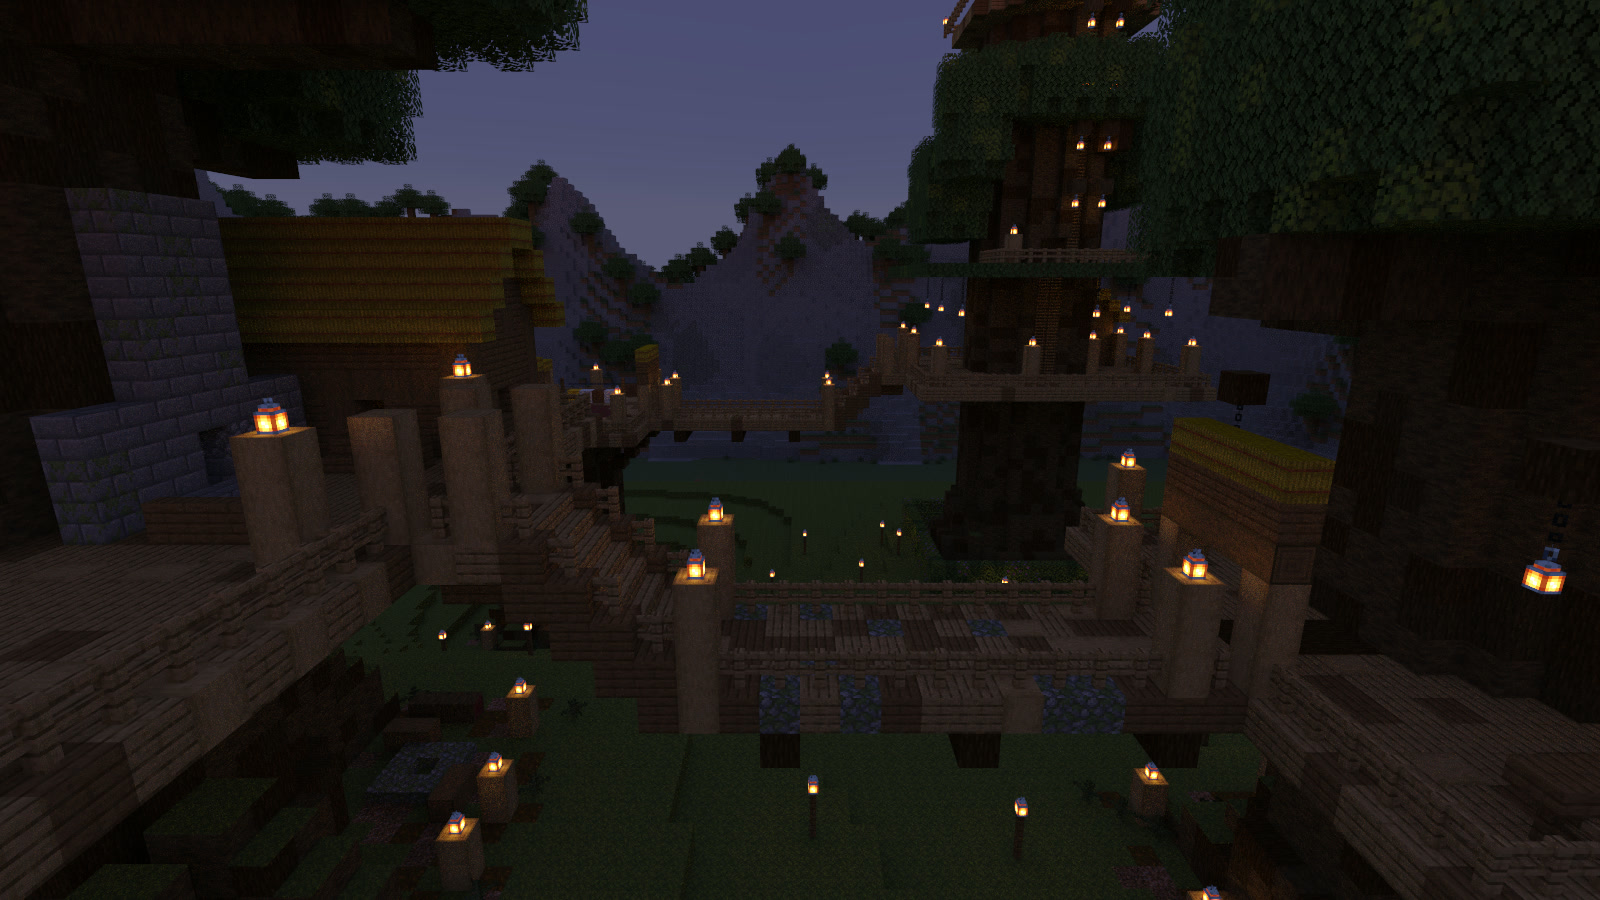
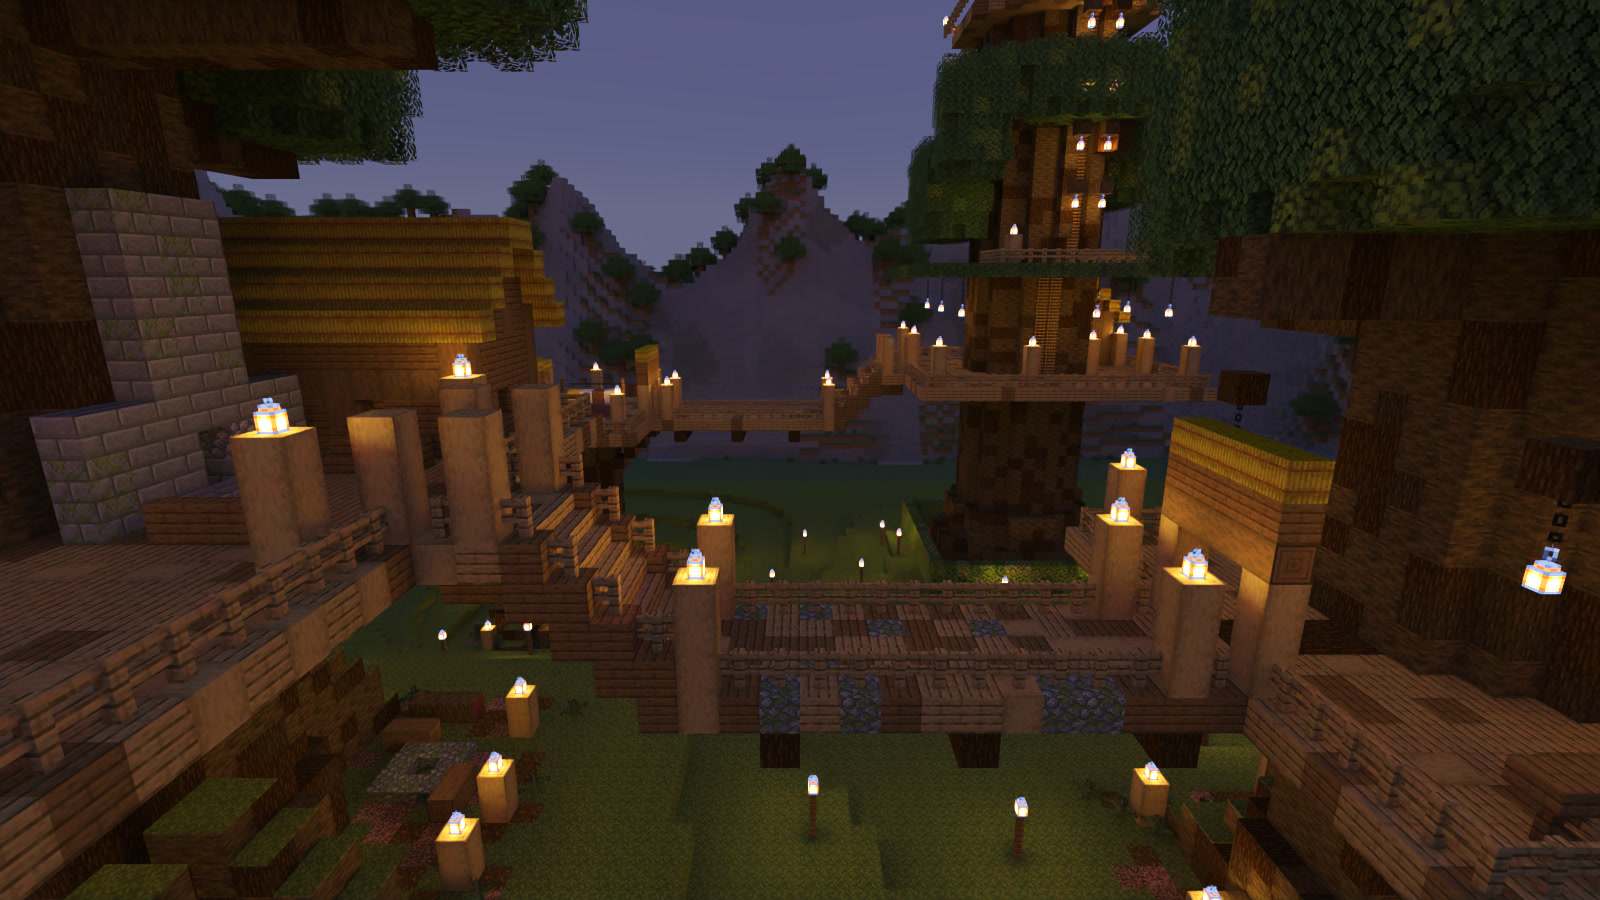
docs(media): The Treehouse Camp's twelve pictures at the game's mid-tone, lantern-lit and denoised
The twelve pictures are re-rendered with the render route of engine
fix/midtone-matches-the-game @ f330afcd95069a0083350865feadeb4ab66a33b4:
a Hable curve anchored at mid-grey (linear 0.18 maps to the game's
display value), lantern emitters at the derived light scale, and every
frame denoised by Open Image Denoise through the pinned chunky-denoiser.
The subjects, cameras and order are unchanged. The worlds are the ones
the release pin builds (content release/the-treehouse-camp/v1.0.1,
delvec 1.12.0), byte-identical to the previous set's.

The whole-camp picture is renamed 01-hero-whole-map-east-northeast.jpg.
It is taken from the east-north-east, as its caption already said; the
old name said south-south-west. Its three references (the campaign page
and the gallery in English and zh-CN) follow the new name.

Per picture (JPEG bytes, mean luma by ffmpeg signalstats YAVG):

| Picture | bytes | mean luma |
|---|---|---|
| 01 whole camp | 401004 | 64.9 |
| 02 Root Glade | 378740 | 48.4 |
| 03 Hearth House | 338533 | 41.6 |
| 04 Long Bridge | 341045 | 41.5 |
| 05 Loom House | 343943 | 42.9 |
| 06 Low Bridge | 352658 | 43.9 |
| 07 Seed House | 302481 | 36.6 |
| 08 High Bridge | 293792 | 44.1 |
| 09 Watch House | 309206 | 47.1 |
| 10 The climb | 408531 | 54.5 |
| 11 Crown Lookout | 301874 | 59.7 |
| 12 Lantern Night | 324856 | 39.9 |

The place pictures (02-10) read 36.6-54.5. Five in-game screenshots of
the camp at the same hour read 41.4-47.9; they are other views, so the
[…]

diff --git a/docs/media/README.md b/docs/media/README.md
@@ -16,7 +16,7 @@ docker run -e EULA=TRUE -p 25565:25565 ghcr.io/stellarfeline/delve-vesperhold:la
 
 ## [The Treehouse Camp](the-treehouse-camp/README.md)
 
-[![The Treehouse Camp: four giant trees with houses round their trunks and rope bridges between them, seen from high in the east-north-east, looking toward the setting sun](the-treehouse-camp/01-hero-whole-map-south-southwest.jpg)](the-treehouse-camp/README.md)
+[![The Treehouse Camp: four giant trees with houses round their trunks and rope bridges between them, seen from high in the east-north-east, looking toward the setting sun](the-treehouse-camp/01-hero-whole-map-east-northeast.jpg)](the-treehouse-camp/README.md)
 
 A gentle walk and climb for one to four guests, under half an hour, with nothing hostile in it. A forest clan lives in houses built round four giant trees, joined by rope bridges and rope ladders; on Lantern Night you fetch a lantern and its oil from two houses, carry it up the tallest tree, and watch the whole camp light up below you.
 

diff --git a/docs/media/README.zh-CN.md b/docs/media/README.zh-CN.md
@@ -16,7 +16,7 @@ docker run -e EULA=TRUE -p 25565:25565 ghcr.io/stellarfeline/delve-vesperhold:la
 
 ## [树屋营地（The Treehouse Camp）](the-treehouse-camp/README.md)
 
-[![树屋营地：从东北偏东的高处朝着落日望去，四棵巨树的树干上各绕着一座屋子，屋与屋之间拉着绳桥](the-treehouse-camp/01-hero-whole-map-south-southwest.jpg)](the-treehouse-camp/README.md)
+[![树屋营地：从东北偏东的高处朝着落日望去，四棵巨树的树干上各绕着一座屋子，屋与屋之间拉着绳桥](the-treehouse-camp/01-hero-whole-map-east-northeast.jpg)](the-treehouse-camp/README.md)
 
 一场轻松的漫步加攀爬，一到四位客人，不到半小时，没有任何敌意。一个森林部族把家安在四棵巨树上，靠绳桥和绳梯来往；灯笼夜里，你们从两户人家那里分别取来灯笼和灯油，把它带上最高的那棵树，然后看着整个营地在脚下一盏盏亮起来。
 

diff --git a/docs/media/the-treehouse-camp/README.md b/docs/media/the-treehouse-camp/README.md
@@ -2,7 +2,7 @@
 
 Renders of **The Treehouse Camp**, a delve built with Delvewright: a forest clan's houses on four giant trees, joined by rope bridges and rope ladders, at sunset; the last picture is taken at night, after the lantern is hung. The whole camp first, then one picture for each part of it, in the order a party reaches them. [All campaigns](../README.md) · [Back to the front page](../../../README.md).
 
-![The whole camp](01-hero-whole-map-south-southwest.jpg)
+![The whole camp](01-hero-whole-map-east-northeast.jpg)
 
 The camp from high in the east-north-east, looking toward the setting sun: the Loom House on its cut-off trunk in front, the Watch Tree on the left, its lookout above every other crown, the Hearth Tree behind on the right, and the Seed Tree between them at the back.
 
